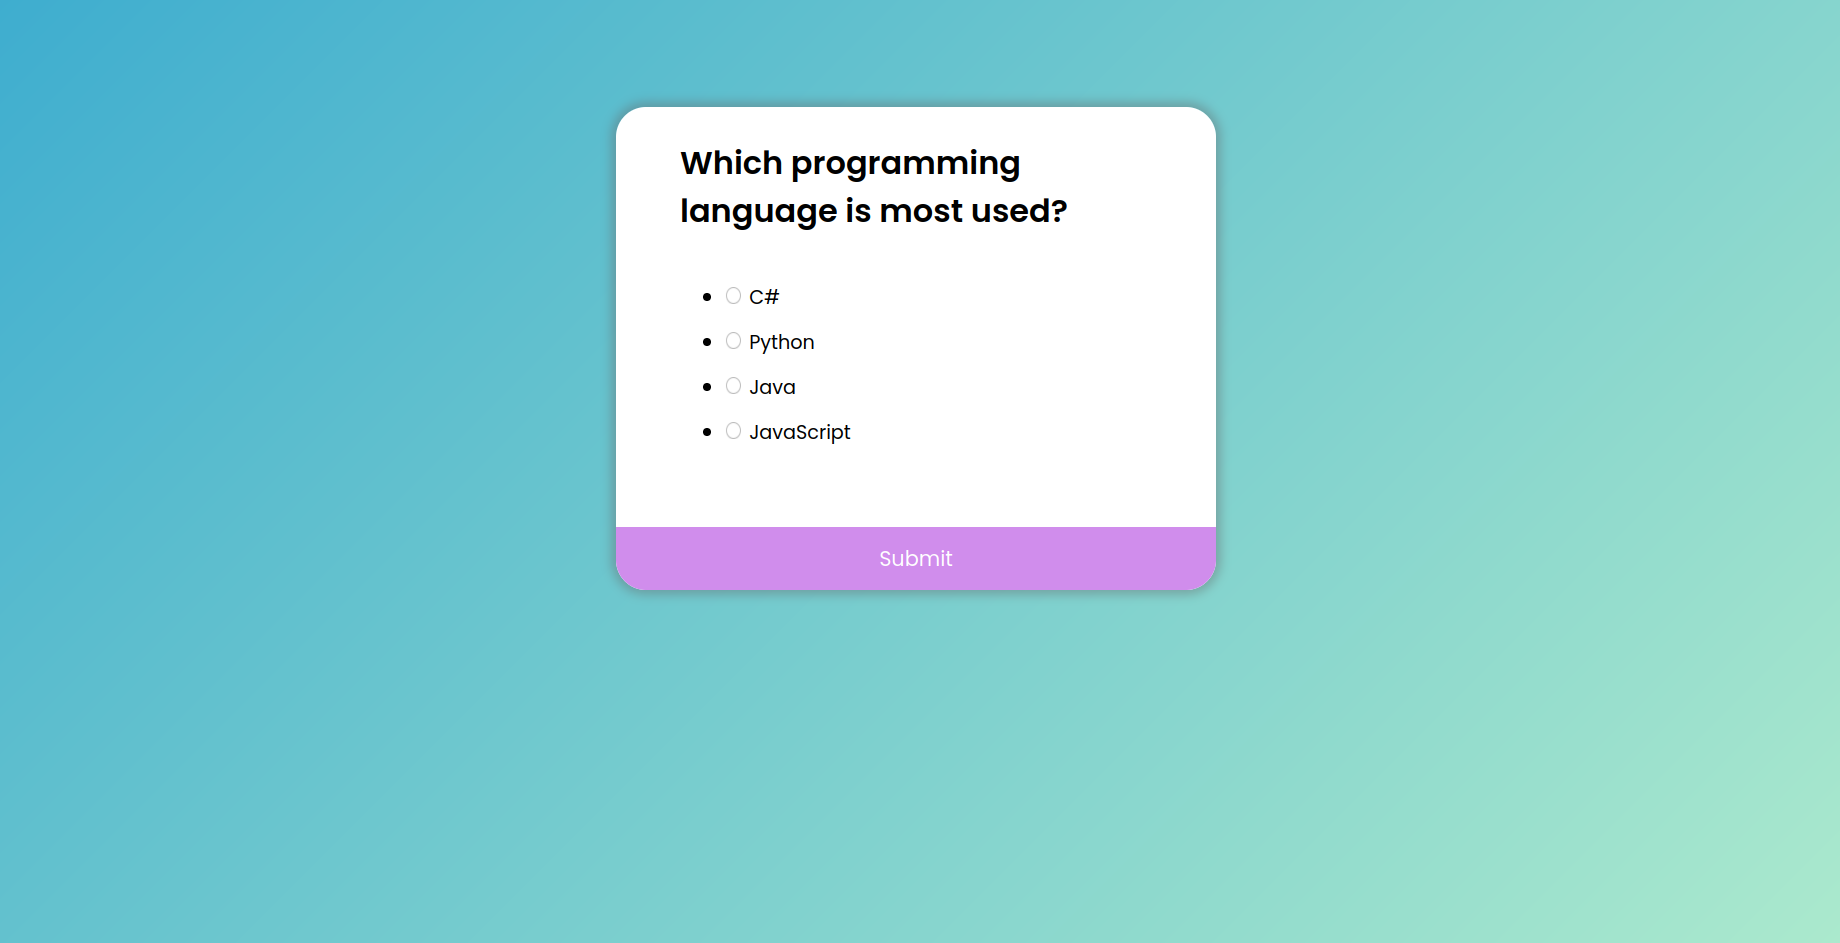
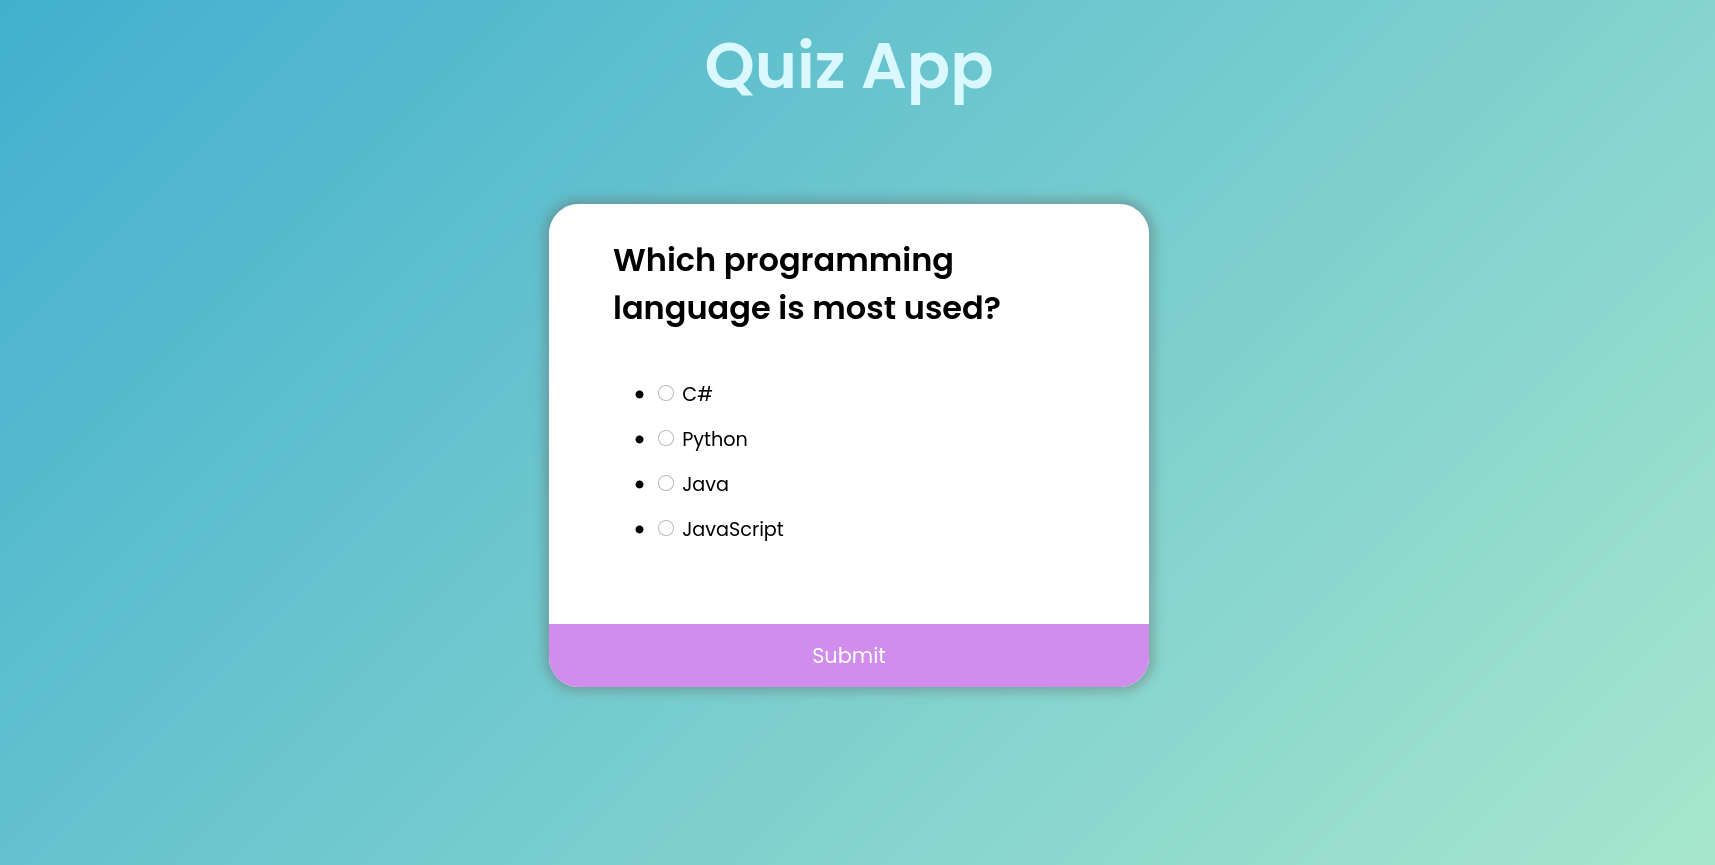
updating images

Changed region(s): [[0.309, 0.0312, 0.6799, 0.8116], [0.3708, 0.4058, 0.4636, 0.4682]]

diff --git a/style.css b/style.css
@@ -9,6 +9,7 @@ body {
   background-image: linear-gradient(315deg, #abe9cd 0%, #3eadcf 100%);
   min-height: 100vh;
   display: flex;
+  flex-direction: column;
   align-items: center;
   justify-content: center;
   font-family: Poppins, sans-serif;
@@ -25,7 +26,7 @@ h2 {
 }
 
 .quizContainer {
-  margin-top: -15rem;
+  margin-top: 3rem;
   background-color: white;
   border-radius: 30px;
   box-shadow: 0 0 10px 5px rgba(100, 100, 100, 0.4);
@@ -45,6 +46,10 @@ ul li {
 
 ul li label {
   cursor: pointer;
+}
+
+.quizApp {
+  color: white;
 }
 
 .quizHeader {

diff --git a/index.html b/index.html
@@ -8,6 +8,12 @@
     <script src="script.js" defer></script>
   </head>
   <body>
+    <div
+      id="quizApp"
+      style="font-size: 2rem; margin-top: -10rem; color: #daf8ff"
+    >
+      <h1>Quiz App</h1>
+    </div>
     <div class="quizContainer" id="quiz">
       <div class="quizHeader">
         <h1 id="question">Question text</h1>
